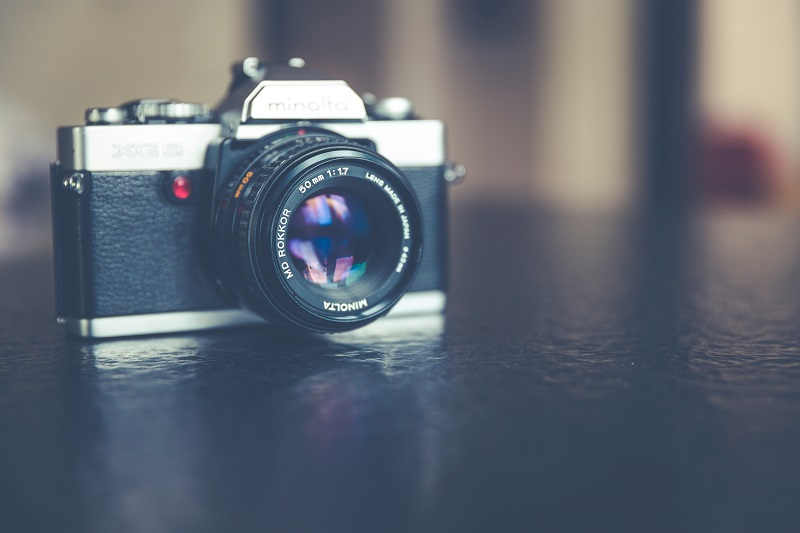
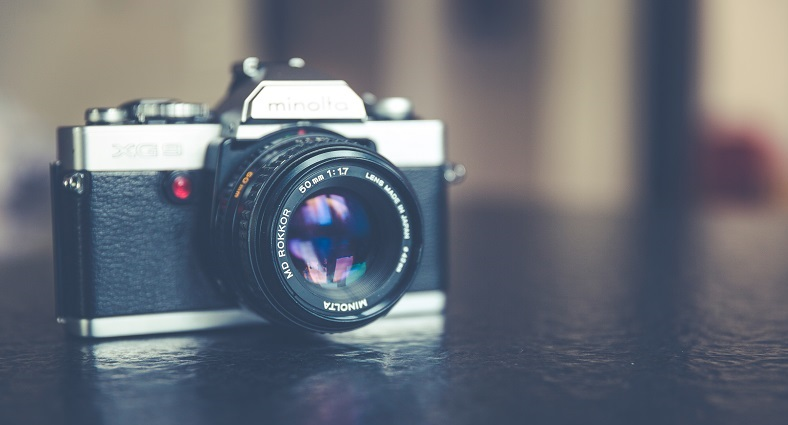
wip

diff --git a/mediaQ-desktop.css b/mediaQ-desktop.css
@@ -66,7 +66,7 @@ label {
 
 .background-img-camera {
   background-image:url('./img/camera2.jpg');
-  min-height: 500px;
+  min-height: 400px;
 }
 
 .background-img-hero, .background-img-ballet, .background-img-camera {
@@ -97,14 +97,16 @@ label {
 }
 
 .about-me-text {
-  width: 50%;
+  width: 40%;
+  font-size: 18px;
+  padding-top: 20px;
 }
 
 .content-section {
-  background: pink;  
+  background: rgb(228, 194, 200);  
 }
 .custom-spacing {
-  padding: 50px 80px;
+  padding: 50px 90px;
 }
 
 .custom-border {
@@ -112,17 +114,27 @@ label {
   border-radius: 0% 100% 0% 100% / 17% 69% 31% 83%; 
 }
 
-.slider {
+.my-foto {
   width: 50%;
  }
 
-.slider img {
+.my-foto img {
   height: 350px;
-  width: 17%;
   box-shadow: 0 10px 20px rgba(0, 0, 0, 0.3);
   position: absolute;
   transition: all 4s;
   border-radius: 20px;
+  text-align: center;
+}
+
+.my-foto>img {
+  transition: 1.5s ease-out;
+}
+
+.my-foto>img:hover {
+  color: darkmagenta;
+  transform: scale(1.1);
+  transition: 0.5s;
 }
 
 #about-me {
@@ -175,8 +187,8 @@ display: flex;
 .footer-text{
   font-size: 20px;
   color: white;
-padding-top: 7px;
-padding-right: 17px;
+  padding-top: 7px;
+  padding-right: 17px;
 }
 
 /* Footer */
@@ -184,7 +196,7 @@ padding-right: 17px;
 .footer {
   text-align: center;
   font-size: 15px;
-  background: #b294b0;
+  background: #a789a5;
   padding: 20px;
 }
 

diff --git a/index.html b/index.html
@@ -32,7 +32,7 @@
 
   <div class="background-img-hero">
     <div class="hero-text">
-      Let's create something beautiful together!
+      Let's create something great together!
     </div>
   </div>
 
@@ -40,9 +40,8 @@
     <div class="custom-border custom-spacing">
       <h2>About me</h2>
       <div class="about-me-container">
-        <div class="slider">
+        <div class="my-foto">
           <img src="./img/me.jpeg">
-          <img src="./img/web.jpg">
         </div>
         <div class="about-me-text">
           <p>

diff --git a/slider.js b/slider.js
@@ -1,7 +1,7 @@
-(function () {
-    setInterval(function () {
-        var container = document.querySelector('.slider');
-        var img = container.querySelector('img:first-child');
-        container.appendChild(img);
-    }, 7000)
-})()
+// (function () {
+//     setInterval(function () {
+//         var container = document.querySelector('.slider');
+//         var img = container.querySelector('img:first-child');
+//         container.appendChild(img);
+//     }, 7000)
+// })()
